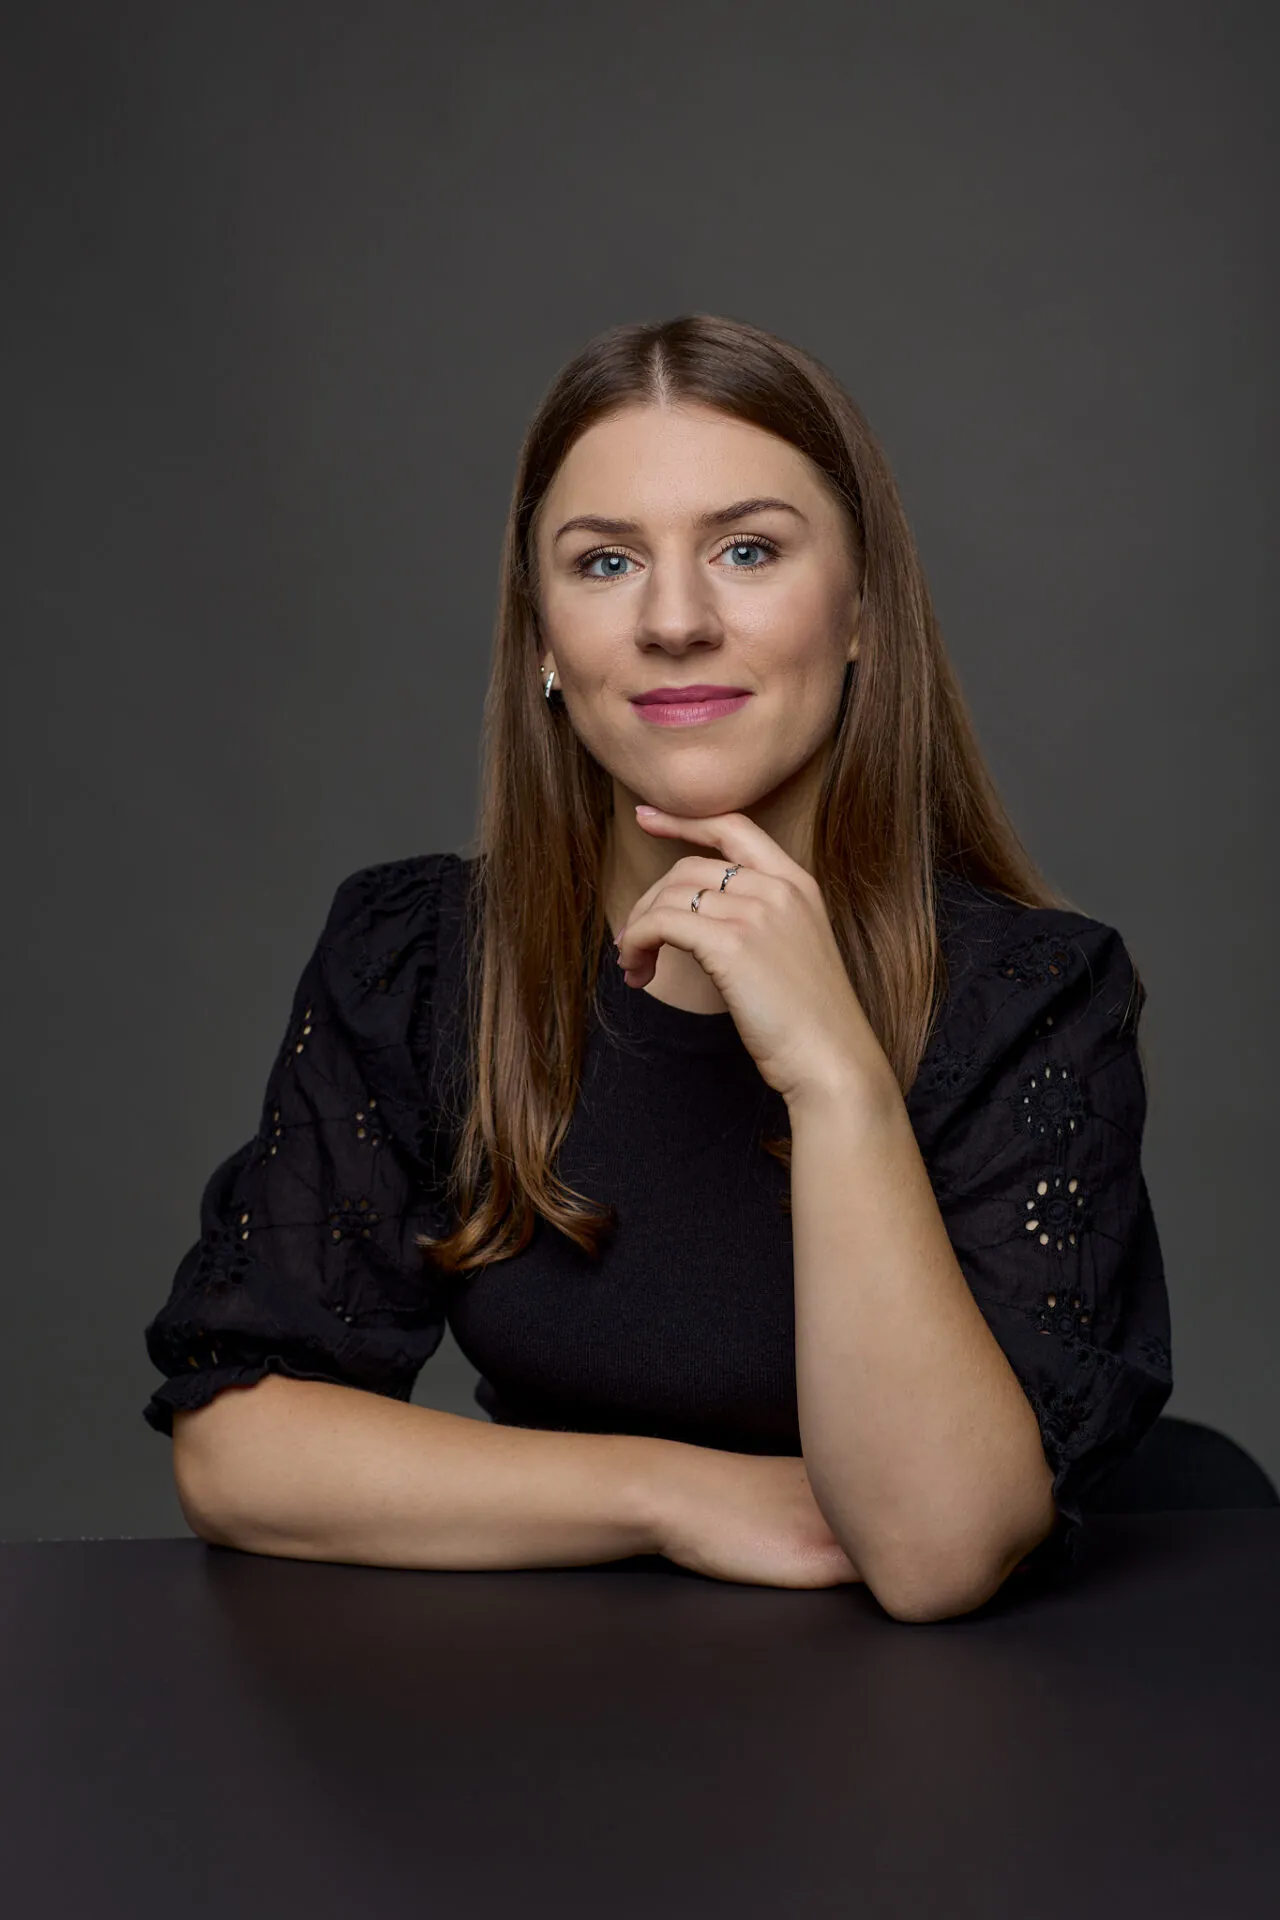
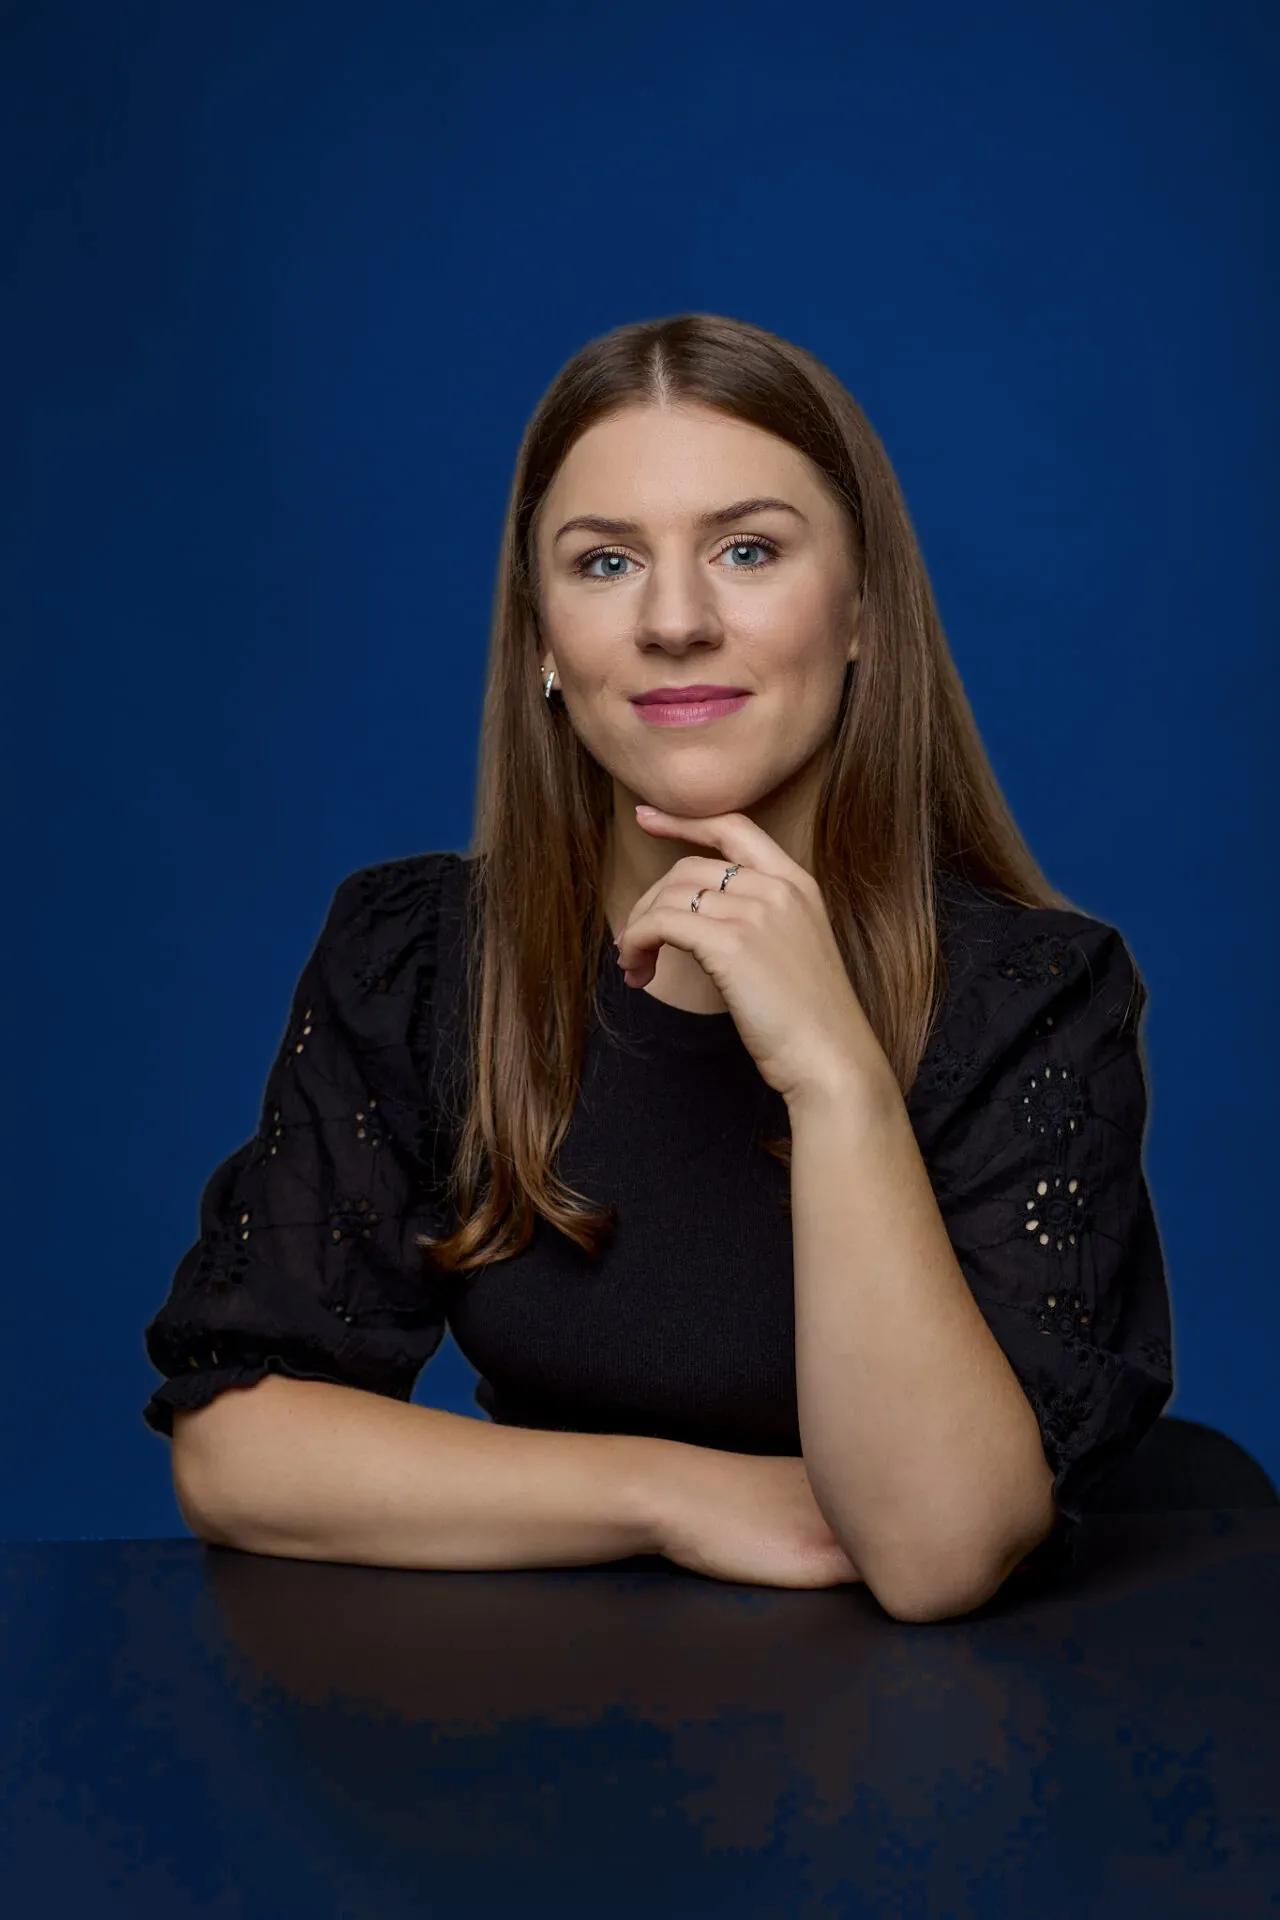
Granatowe tlo pierwszego ekranu zamiast szarego

diff --git a/index.html b/index.html
@@ -18,7 +18,7 @@
 @font-face{font-family:Jost;font-weight:300 800;font-display:swap;src:url(fonts/jost-pl.woff2) format("woff2");unicode-range:U+0104-0107,U+0118-0119,U+0141-0144,U+015A-015B,U+0179-017C}
 @font-face{font-family:Lora;font-weight:400 700;font-display:swap;src:url(fonts/lora-rdzen.woff2) format("woff2");unicode-range:U+0020-007E,U+00A0,U+00A9,U+00AB,U+00B0,U+00B7,U+00BB,U+00D3,U+00D7,U+00F3,U+2013-2014,U+2018-2019,U+201C-201E,U+2022,U+2026}
 @font-face{font-family:Lora;font-weight:400 700;font-display:swap;src:url(fonts/lora-pl.woff2) format("woff2");unicode-range:U+0104-0107,U+0118-0119,U+0141-0144,U+015A-015B,U+0179-017C}
-:root{--granat:#043372;--granat-d:#03275a;--blekit:#2291D1;--blekit-d:#1877b0;--ink:#0d1b33;--txt:#36404f;--szary:#F1F4F8;--linia:#dde3eb;--grafit:#2e2e2f;--r:4px;
+:root{--granat:#043372;--granat-d:#03275a;--blekit:#2291D1;--blekit-d:#1877b0;--ink:#0d1b33;--txt:#36404f;--szary:#F1F4F8;--linia:#dde3eb;--tlo-hero:#062756;--r:4px;
 --plisa:repeating-linear-gradient(90deg,#043372 0 9px,#0a4693 9px 13px,#2291D1 13px 15px,#0a4693 15px 18px)}
 *{box-sizing:border-box}
 html{-webkit-text-size-adjust:100%;scroll-behavior:smooth}
@@ -72,7 +72,7 @@ p{margin:0}
  .otwarte .burger i:nth-child(3){transform:translateY(-8px) rotate(-45deg)}
 }
 /* hero */
-.hero{position:relative;min-height:calc(100svh - 75px);display:flex;align-items:center;background:var(--grafit);color:#fff;overflow:hidden}
+.hero{position:relative;min-height:calc(100svh - 75px);display:flex;align-items:center;background:var(--tlo-hero);color:#fff;overflow:hidden}
 .hero-foto{position:absolute;top:0;bottom:0;right:0;width:min(60%,calc((100svh - 75px)*1.08));margin:0}
 .hero-foto img{width:100%;height:100%!important;object-fit:cover;object-position:50% 22%;-webkit-mask-image:linear-gradient(90deg,transparent 0,#000 34%);mask-image:linear-gradient(90deg,transparent 0,#000 34%)}
 .hero-in{position:relative;z-index:1;width:min(1240px,100%);margin:0 auto;padding:56px 20px 64px}
